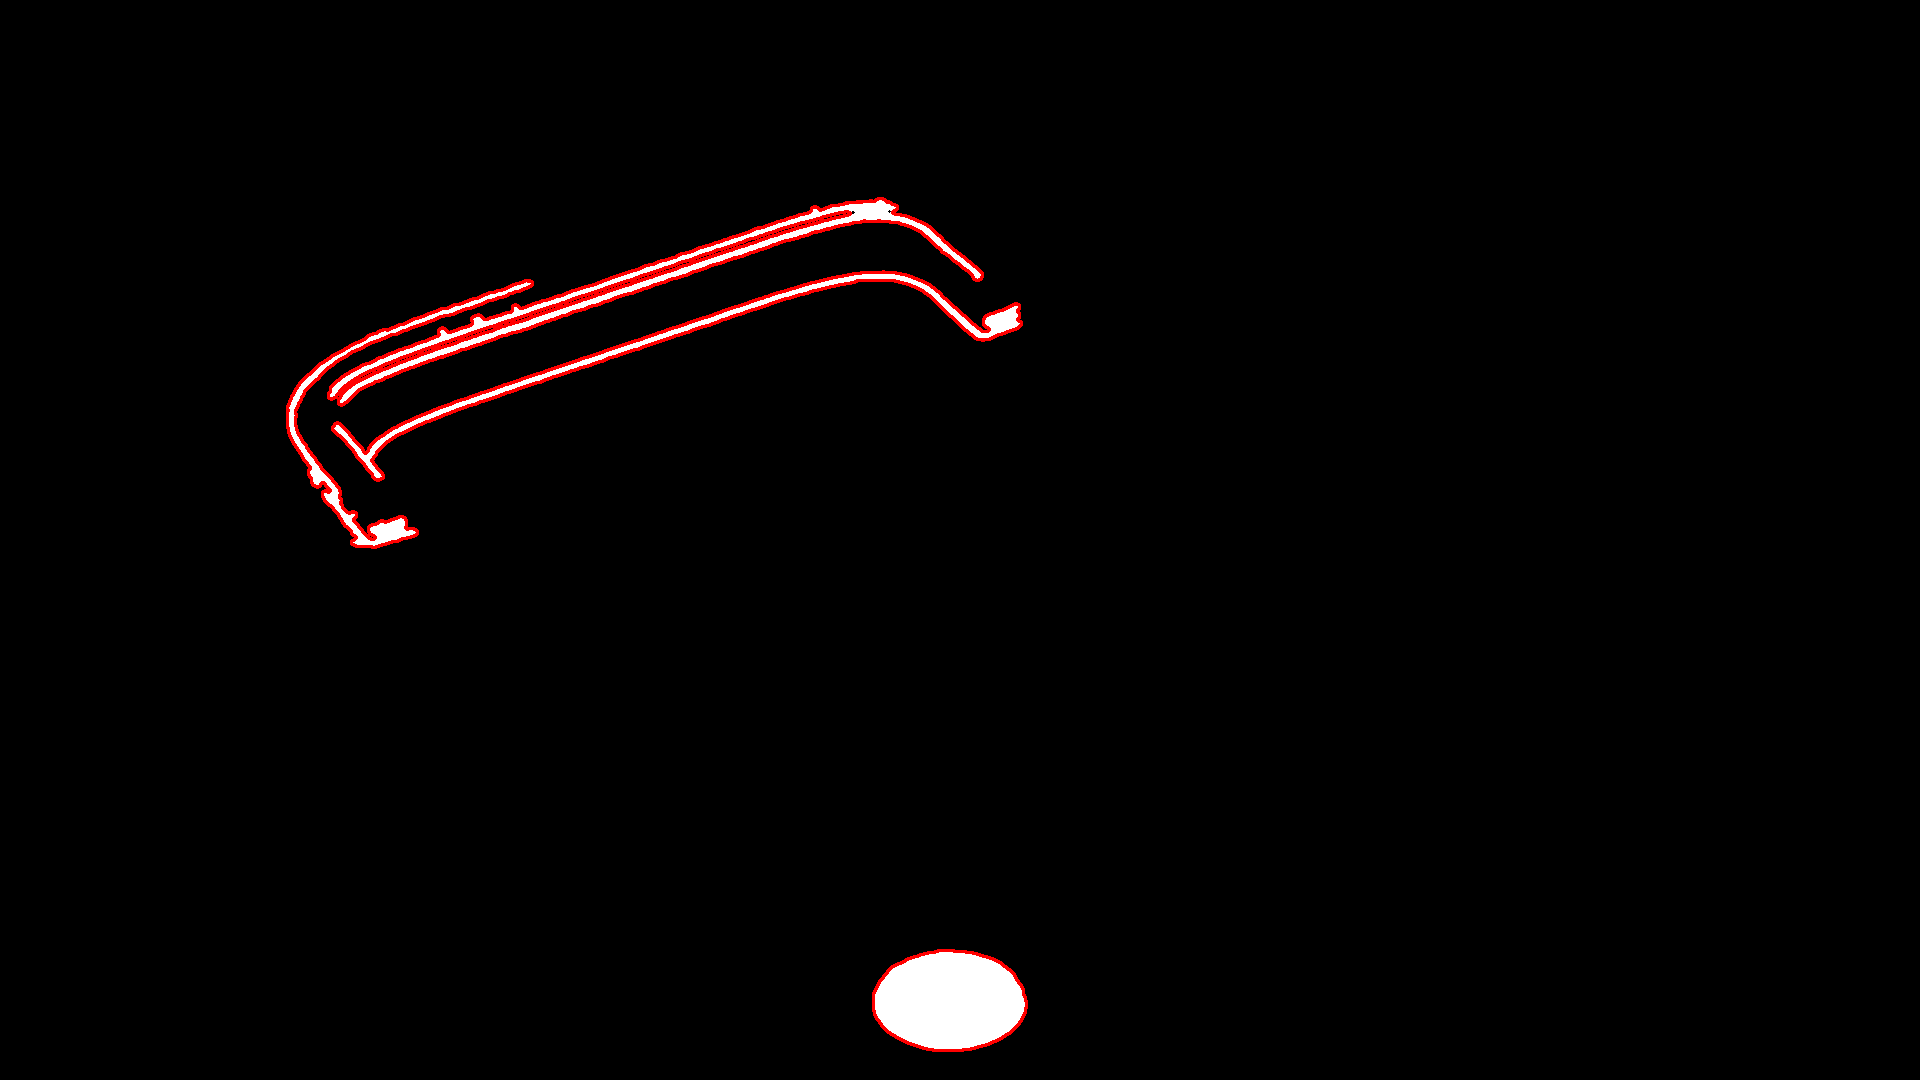
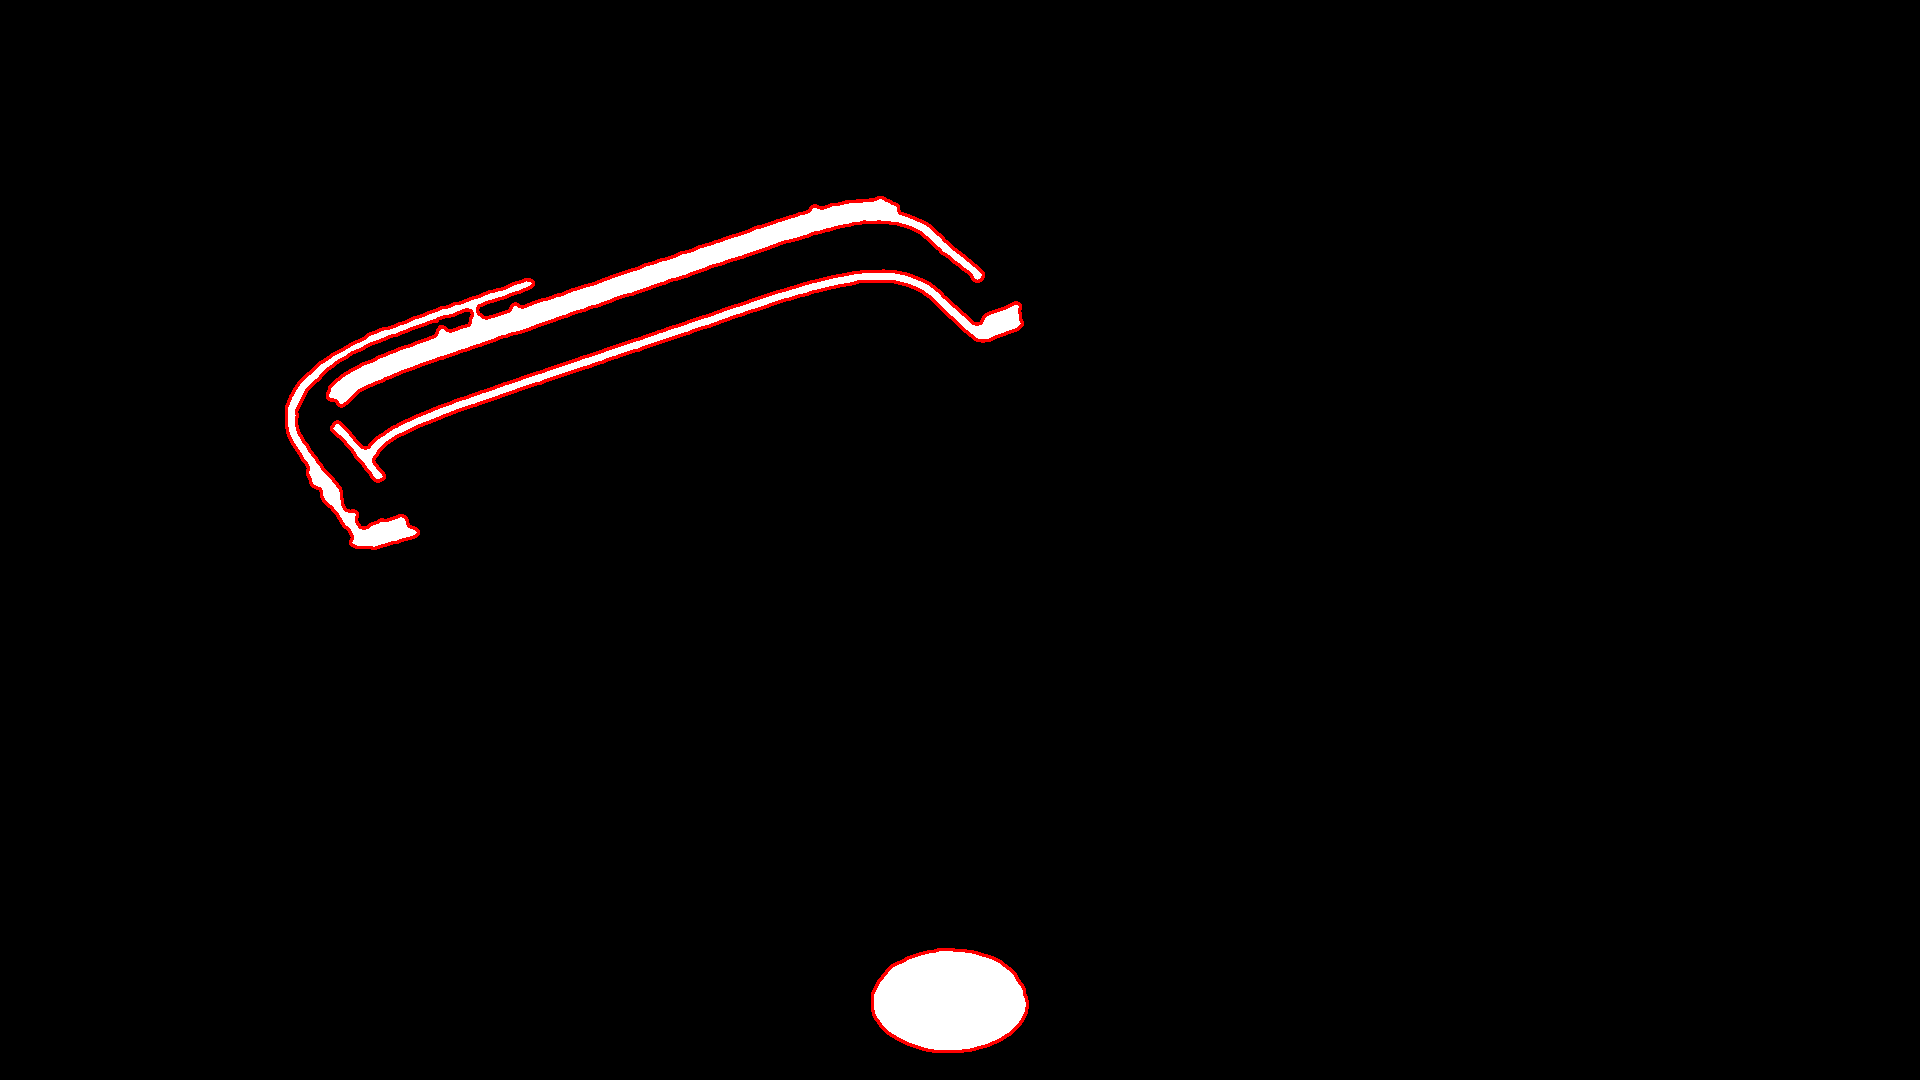
Mejoras segmentacion v2

diff --git a/interfaz_robot/interfaz_robot.cpp b/interfaz_robot/interfaz_robot.cpp
@@ -503,8 +503,7 @@ cv::Mat interfaz_robot::ProcesarImagen() {
 
     for (const auto& entry : fs::directory_iterator(rutaEjecutable)) {
         std::string nombre = entry.path().filename().string();
-        if (nombre.rfind("pieza_", 0) == 0 && nombre.find("segmentada") == std::string::npos &&
-            entry.path().extension() == ".png") {
+        if (nombre.rfind("pieza_", 0) == 0 && nombre.find("segmentada") == std::string::npos && entry.path().extension() == ".png") {
             imagenes.push_back(entry.path());
         }
     }
@@ -544,7 +543,8 @@ cv::Mat interfaz_robot::ProcesarImagen() {
         // === 4. Umbral adaptativo ===
         cv::Mat binaria;
         cv::adaptiveThreshold(
-            suavizada, binaria, 255, cv::ADAPTIVE_THRESH_GAUSSIAN_C,
+            suavizada, binaria, 255,
+            cv::ADAPTIVE_THRESH_GAUSSIAN_C,
             cv::THRESH_BINARY_INV, 21, 3
         );
 
@@ -558,44 +558,160 @@ cv::Mat interfaz_robot::ProcesarImagen() {
         std::vector<std::vector<cv::Point>> contornos;
         cv::findContours(binaria.clone(), contornos, cv::RETR_EXTERNAL, cv::CHAIN_APPROX_SIMPLE);
 
-        // === 7. Filtrar contornos por área y bordes (sin elipses) ===
+        // === 7. Filtrar contornos por área y bordes ===
         cv::Mat plano = cv::Mat::zeros(binaria.size(), CV_8UC1);
         double areaMinima = procesada.cols * procesada.rows * 0.001;
         std::vector<std::vector<cv::Point>> contornosValidos;
+        std::vector<cv::Rect> bboxes;
+
         for (const auto& c : contornos) {
             double area = cv::contourArea(c);
             if (area < areaMinima) continue;
-            // Eliminar contornos que tocan los bordes
             cv::Rect bbox = cv::boundingRect(c);
-            if (bbox.x <= 1 || bbox.y <= 1 ||
-                bbox.x + bbox.width >= procesada.cols - 1 ||
-                bbox.y + bbox.height >= procesada.rows - 1) continue;
+            if (bbox.x <= 1 || bbox.y <= 1 || bbox.x + bbox.width >= procesada.cols - 1 || bbox.y + bbox.height >= procesada.rows - 1)
+                continue;
             contornosValidos.push_back(c);
+            bboxes.push_back(bbox);
         }
 
-        // === 8. Mejorar unión de contornos según proximidad ===
-        cv::drawContours(plano, contornosValidos, -1, 255, cv::FILLED);
-        cv::Mat kernelDilate = cv::getStructuringElement(cv::MORPH_ELLIPSE, cv::Size(5, 5));
-        cv::dilate(plano, plano, kernelDilate);
-        cv::Mat kernelBlur = cv::getStructuringElement(cv::MORPH_ELLIPSE, cv::Size(3, 3));
-        cv::morphologyEx(plano, plano, cv::MORPH_OPEN, kernelBlur);
+        // Parámetros de fusión (ajustables)
+        const double distanciaMax = 25.0; // px máximo para considerar fusión
+        const double maxForegroundFrac = 0.30; // fracción máxima de foreground en la línea de conexión
+        const int samplesAlongLine = 20; // cantidad de muestras a tomar a lo largo de la línea
+
+        // Helper: calcula la distancia mínima entre 2 contornos y los puntos más cercanos (pA, pB)
+        auto contourMinDistAndPoints = [](const std::vector<cv::Point>& A, const std::vector<cv::Point>& B, cv::Point& pA_out, cv::Point& pB_out) -> double {
+            double minD = std::numeric_limits<double>::max();
+            for (const cv::Point& pa : A) {
+                for (const cv::Point& pb : B) {
+                    double d = cv::norm(pa - pb);
+                    if (d < minD) {
+                        minD = d;
+                        pA_out = pa;
+                        pB_out = pb;
+                    }
+                }
+            }
+            return minD;
+            };
+
+        // === 8. Mejor unión de contornos: criterios múltiples y verificación por línea ===
+        cv::Mat planoUnion = cv::Mat::zeros(binaria.size(), CV_8UC1);
+        cv::drawContours(planoUnion, contornosValidos, -1, 255, cv::FILLED);
+        std::vector<int> merge_partner(contornosValidos.size(), -1);
+
+        for (size_t i = 0; i < contornosValidos.size(); ++i) {
+            for (size_t j = i + 1; j < contornosValidos.size(); ++j) {
+                cv::Rect bi = bboxes[i];
+                cv::Rect bj = bboxes[j];
+                cv::Rect unionBB = bi | bj;
+                double diagMax = std::sqrt(std::max(bi.width * bi.width + bi.height * bi.height, bj.width * bj.width + bj.height * bj.height));
+
+                cv::Point2d ci(bi.x + bi.width / 2.0, bi.y + bi.height / 2.0);
+                cv::Point2d cj(bj.x + bj.width / 2.0, bj.y + bj.height / 2.0);
+                double centroDist = cv::norm(ci - cj);
+                if (centroDist > (diagMax * 1.5 + distanciaMax * 2.0)) {
+                    continue;
+                }
+
+                cv::Point pA, pB;
+                double minD = contourMinDistAndPoints(contornosValidos[i], contornosValidos[j], pA, pB);
+                if (minD > distanciaMax) continue;
+
+                int fgCount = 0;
+                int totalSamples = std::max(2, samplesAlongLine);
+                for (int s = 0; s <= totalSamples; ++s) {
+                    double t = static_cast<double>(s) / totalSamples;
+                    int x = static_cast<int>(std::round(pA.x + t * (pB.x - pA.x)));
+                    int y = static_cast<int>(std::round(pA.y + t * (pB.y - pA.y)));
+                    x = std::clamp(x, 0, binaria.cols - 1);
+                    y = std::clamp(y, 0, binaria.rows - 1);
+                    if (binaria.at<uchar>(y, x) > 0) fgCount++;
+                }
+
+                double fgFrac = static_cast<double>(fgCount) / (totalSamples + 1);
+                bool acceptMerge = false;
+                if (fgFrac <= maxForegroundFrac) {
+                    acceptMerge = true;
+                }
+                else {
+                    if (minD < std::max(3.0, diagMax * 0.08)) {
+                        acceptMerge = true;
+                    }
+                }
+
+                if (acceptMerge) {
+                    if (merge_partner[i] == -1 && merge_partner[j] == -1) {
+                        int idx = static_cast<int>(i);
+                        merge_partner[i] = idx;
+                        merge_partner[j] = idx;
+                    }
+                    else if (merge_partner[i] != -1 && merge_partner[j] == -1) {
+                        merge_partner[j] = merge_partner[i];
+                    }
+                    else if (merge_partner[j] != -1 && merge_partner[i] == -1) {
+                        merge_partner[i] = merge_partner[j];
+                    }
+                    else {
+                        int a = merge_partner[i];
+                        int b = merge_partner[j];
+                        if (a != b) {
+                            for (size_t k = 0; k < merge_partner.size(); ++k)
+                                if (merge_partner[k] == b)
+                                    merge_partner[k] = a;
+                        }
+                    }
+                    cv::line(planoUnion, pA, pB, 255, static_cast<int>(std::max(3.0, diagMax * 0.02)));
+                }
+            }
+        }
+
+        int nextCluster = static_cast<int>(contornosValidos.size());
+        for (size_t i = 0; i < contornosValidos.size(); ++i) {
+            if (merge_partner[i] == -1) {
+                merge_partner[i] = static_cast<int>(i);
+            }
+        }
+
+        std::map<int, std::vector<int>> clusters;
+        for (size_t i = 0; i < merge_partner.size(); ++i) {
+            clusters[merge_partner[i]].push_back(static_cast<int>(i));
+        }
+
+        cv::Mat planoClusters = cv::Mat::zeros(binaria.size(), CV_8UC1);
+        for (auto& kv : clusters) {
+            for (int idx : kv.second) {
+                cv::drawContours(planoClusters, contornosValidos, idx, 255, cv::FILLED);
+            }
+        }
+
+        cv::Mat kernelDilate = cv::getStructuringElement(cv::MORPH_ELLIPSE, cv::Size(7, 7));
+        cv::dilate(planoClusters, planoClusters, kernelDilate);
+        cv::Mat kernelClose = cv::getStructuringElement(cv::MORPH_ELLIPSE, cv::Size(9, 9));
+        cv::morphologyEx(planoClusters, planoClusters, cv::MORPH_CLOSE, kernelClose);
 
         // === 9. Dibujar contornos finales sobre imagen procesada ===
         std::vector<std::vector<cv::Point>> contornosFinales;
-        cv::findContours(plano.clone(), contornosFinales, cv::RETR_EXTERNAL, cv::CHAIN_APPROX_SIMPLE);
+        cv::findContours(planoClusters.clone(), contornosFinales, cv::RETR_EXTERNAL, cv::CHAIN_APPROX_SIMPLE);
         cv::Mat salidaColor;
-        cv::cvtColor(plano, salidaColor, cv::COLOR_GRAY2BGR);
+        cv::cvtColor(planoClusters, salidaColor, cv::COLOR_GRAY2BGR);
         cv::drawContours(salidaColor, contornosFinales, -1, cv::Scalar(0, 0, 255), 2);
 
         // === 10. Guardar resultado ===
         fs::path rutaColor = rutaImagen.parent_path() / (rutaImagen.stem().string() + "_segmentada.png");
         cv::imwrite(rutaColor.string(), salidaColor);
         std::cout << "Guardada la imagen segmentada: " << rutaColor << std::endl;
+
         ultimaProcesada = salidaColor.clone();
     }
 
     return ultimaProcesada;
 }
+
+
+
+
+
 
 
 
